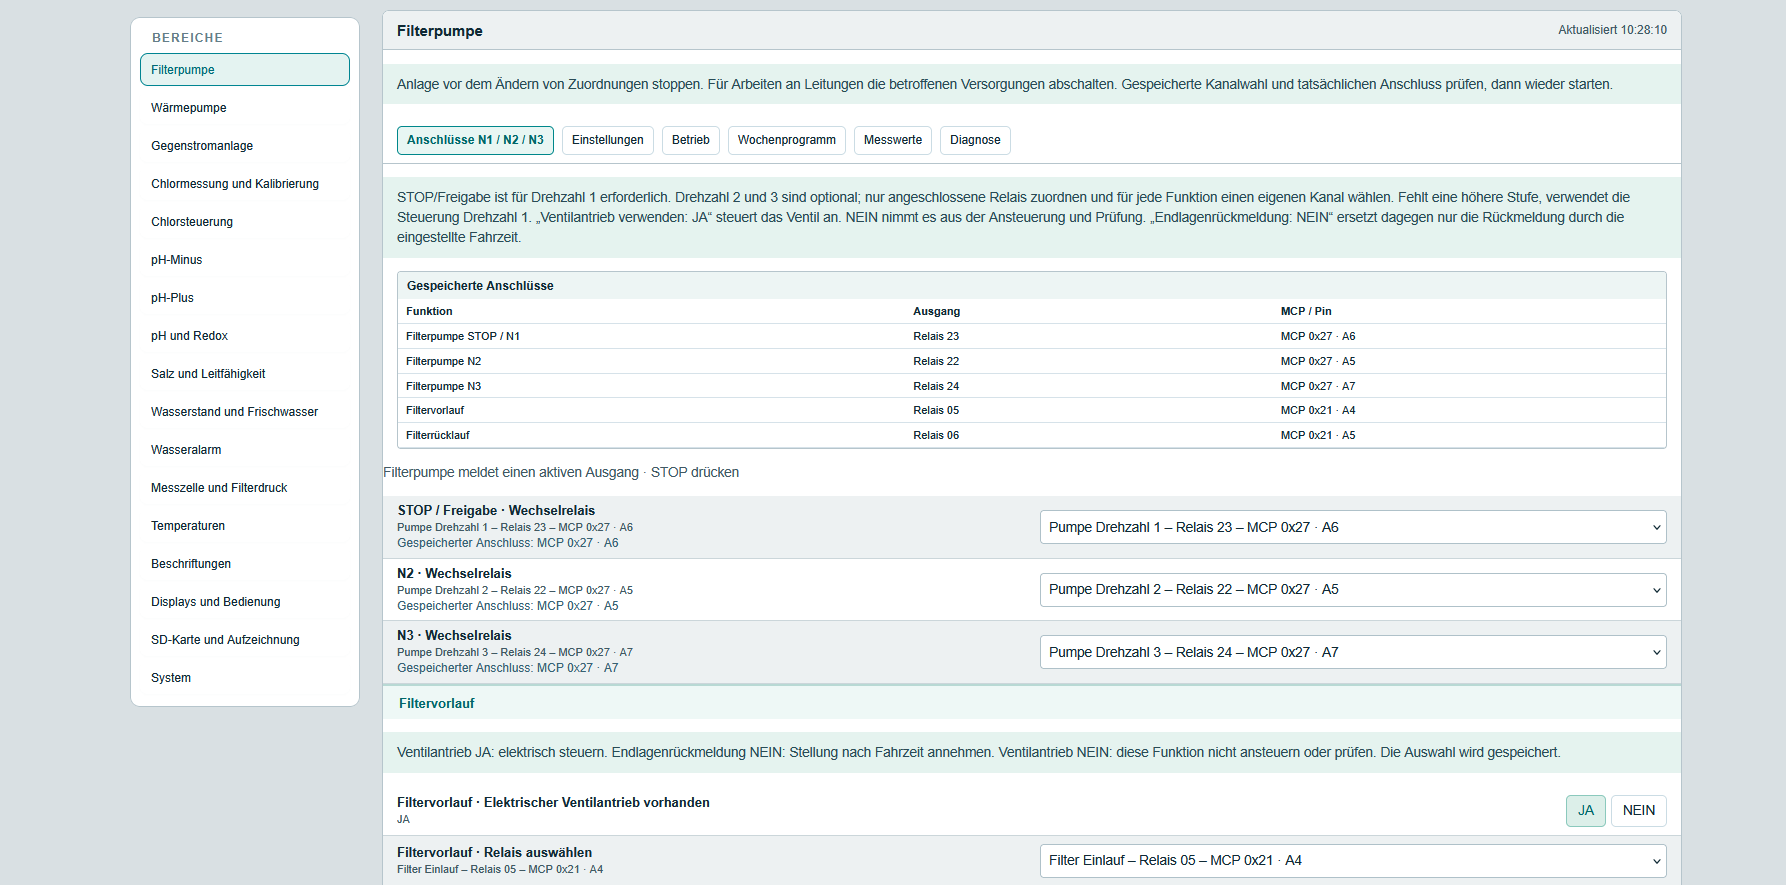
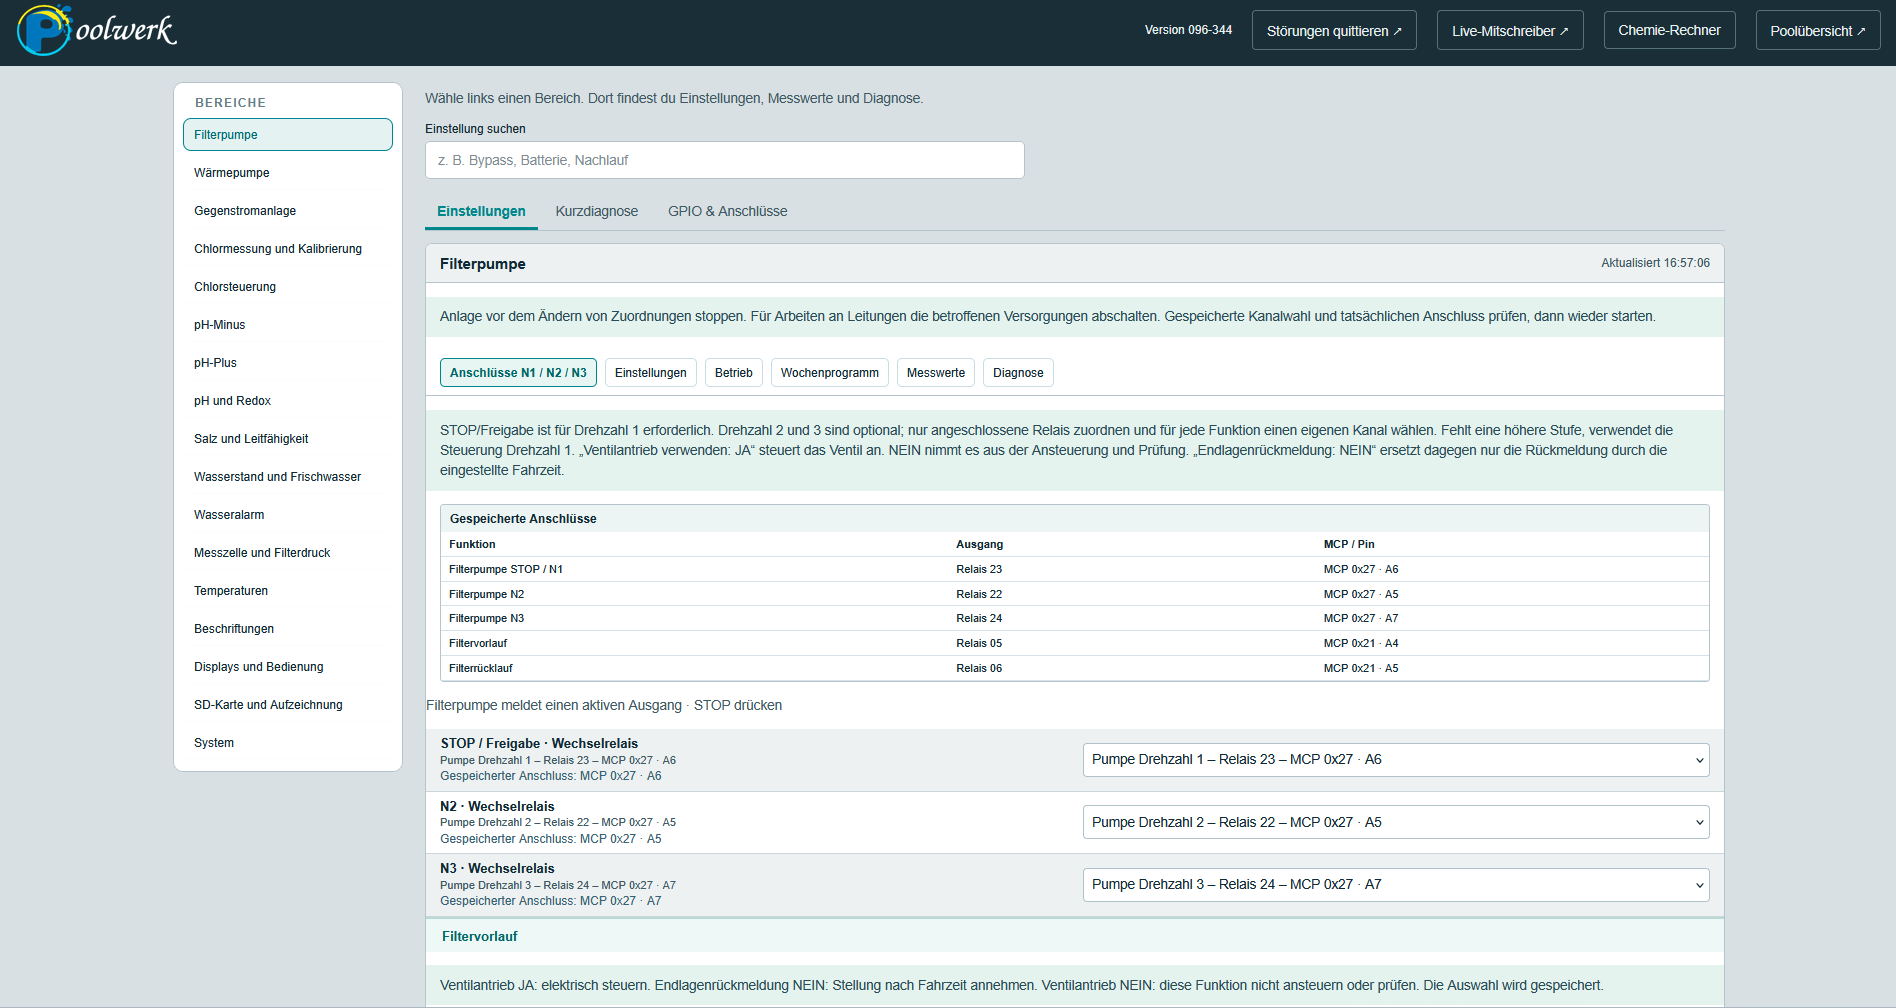
Chemie-Rechner mit Berechnungsgrundlagen vorstellen und Screenshots aktualisieren

diff --git a/README.md b/README.md
@@ -130,6 +130,29 @@ Die Übersicht zeigt Wasserwerte, Temperaturen und Betriebszustände. Darunter l
 
 ![Poolwerk-Webportal mit Messwerten und Anlagenbedienung](bilder/webportal.png)
 
+## Chemie-Rechner
+
+Zum Webportal gehört ein **manuell bedienbarer Chemie-Rechner** mit Bereichen für aktives Chlor, Chlor / Schockchlorung, pH-Minus, pH-Plus sowie TA / Alkalinität. Er ergänzt die Anlagenbedienung um Berechnungen aus eingegebenen Messwerten, Zielwerten und Beckenvolumen.
+
+### Aktives Chlor
+
+Aus freiem Chlor (DPD1), Cyanursäure und pH-Wert berechnet der Rechner einen Modellwert für das aktiv wirksame Chlor (HOCl). Die Oberfläche kennzeichnet diesen ausdrücklich als **berechneten Wert bei 25 °C, nicht als Sensormessung**; die Angabe erfolgt als Cl₂-Äquivalent.
+
+![Chemie-Rechner für aktives Chlor mit Eingaben für DPD1, Cyanursäure und pH](bilder/chemie-rechner-aktives-chlor.png)
+
+### Chlorzugabe und Schockchlorung
+
+Für die Mengenberechnung werden Beckenvolumen, aktueller Chlorwert, selbst gewählter Zielwert und die Angaben zum verwendeten Chlorprodukt eingetragen. Bei Flüssigchlor wird das verfügbare Chlor in Gramm pro Liter laut Produktetikett angegeben. Das Ergebnis zeigt die berechnete Produktmenge.
+
+<details>
+<summary>Ansicht der Chlor-Mengenberechnung öffnen</summary>
+
+![Chemie-Rechner für Chlorzugabe und Schockchlorung mit Beckenvolumen und Produktangaben](bilder/chemie-rechner-chlormenge.png)
+
+</details>
+
+**Der Rechner verwendet keine Livewerte, verändert keine Anlagen-Sollwerte und löst keine Dosierung aus.** Die Eingaben werden nicht gespeichert. Die Berechnung ist eine separate Hilfe zur manuellen Wasserpflege; Produktangaben und Anwendungshinweise bleiben maßgeblich.
+
 ## Home Assistant
 
 Poolwerk ist über **ESPHome in Home Assistant eingebunden**. Mein Dashboard zeigt Wasserqualität, Temperaturen, Betriebszustände, Durchfluss, Filterdruck und Störungsmeldungen. Über „Poolwerk öffnen“ erreiche ich das eigene Webportal.
@@ -242,7 +265,7 @@ Poolwerk ist ein **Prototyp im laufenden Aufbau**, der bereits an meinem Pool ar
 
 ## Einstellungen und Diagnose
 
-Die Einstellungen sind nach Anlagenbereichen gegliedert. Dort lassen sich unter anderem Betriebsarten, vorhandene Komponenten, Sollwerte und Grenzen anpassen. Die Screenshots zeigen die Einstellungen meiner Anlage.
+Die Einstellungen sind nach Anlagenbereichen gegliedert. Dort lassen sich unter anderem Betriebsarten, vorhandene Komponenten, Sollwerte und Grenzen anpassen. Die Screenshots zeigen die Einstellungen meiner Anlage. Eine Suche erleichtert das Auffinden einzelner Einstellungen. Über die Kopfleiste sind außerdem Störungsquittierung, Live-Mitschreiber, Chemie-Rechner und Poolübersicht erreichbar.
 
 <details>
 <summary>Filterpumpe, Wärmepumpe sowie pH und Redox ansehen</summary>
